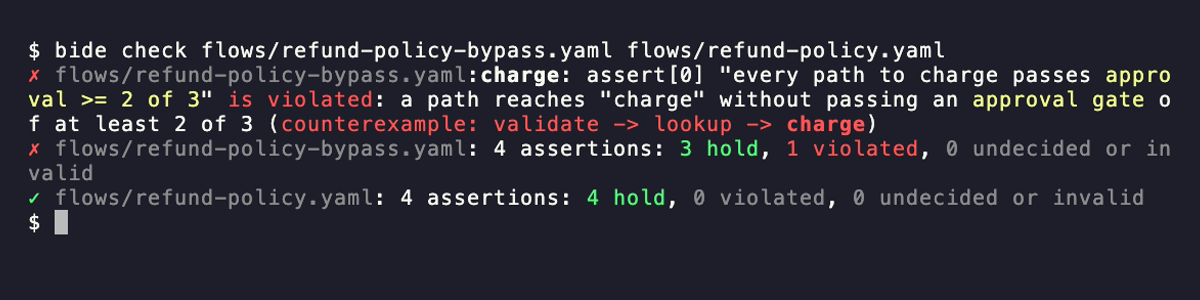
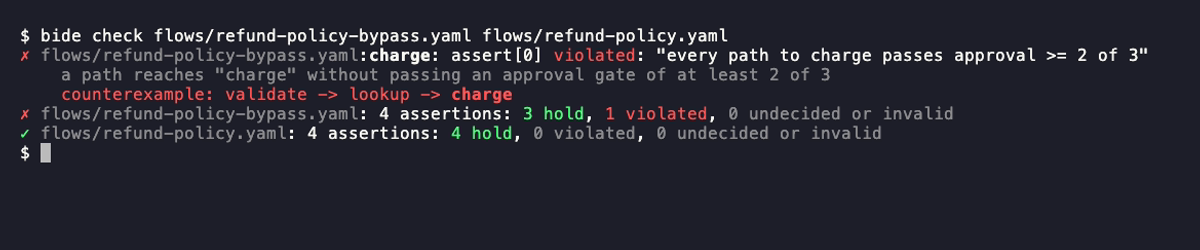
cli: fit colored output to a terminal's width; retake screenshots
On a terminal, a violated assertion is split over the assertion (one color),
its reason and its counterexample path; a diff's summary puts its counts and
digest on lines of their own; verify-evidence says the approver-decision note
once, before the banner. Plain output is unchanged. The screenshots are
retaken at 120 columns, with no wrapped line.

Changed region(s): [[0.0, 0.112, 0.9867, 0.7], [0.0, 0.7, 0.0617, 0.784]]

diff --git a/cmd/bide/color_test.go b/cmd/bide/color_test.go
@@ -6,7 +6,6 @@ import (
 	"io"
 	"os"
 	"path/filepath"
-	"slices"
 	"strings"
 	"testing"
 
@@ -70,24 +69,25 @@ func TestCheckPlainGolden(t *testing.T) {
 }
 
 // TestCheckColorGolden: with -color=always the same lines carry color and marks, and a weakened
-// gate is called out first, in bold red. Without its escapes and marks, the colored output is the
-// plain output's lines.
+// gate is called out first, in bold red. A line too long for a terminal is split over indented
+// lines, so the colored output is checked to keep every word of the plain output.
 func TestCheckColorGolden(t *testing.T) {
 	for _, c := range colorCases {
 		_, out, _ := runBide(append(c.args, "-color=always")...)
 		golden(t, c.golden+".color", out)
 		_, plain := runBideOut(c.args...)
-		if got, want := sortedLines(unmark(stripANSI(out))), sortedLines(plain); got != want {
-			t.Errorf("%s: the colored output's words differ from the plain output's:\n%s\nwant:\n%s", c.golden, got, want)
+		if missing := missingWords(plain, stripANSI(out)); len(missing) > 0 {
+			t.Errorf("%s: the colored output lacks %q of the plain output's words:\n%s", c.golden, missing, stripANSI(out))
 		}
 	}
 	_, out, _ := runBide("check", flowBypass, "-color=always")
 	for _, want := range []string{
-		"\x1b[31m✗\x1b[0m ",                 // a cross on the error
-		"\x1b[31mis violated\x1b[0m",        // the verdict in red
-		"\x1b[1;31mcharge\x1b[0m)",          // the node the counterexample reaches, in bold red
-		"\x1b[31mvalidate\x1b[0m",           // the rest of the path in red
-		"\x1b[33mapproval >= 2 of 3\x1b[0m", // a gate in amber
+		"\x1b[31m✗\x1b[0m ",         // a cross on the error
+		"\x1b[31mviolated\x1b[0m: ", // the verdict in red
+		// the assertion in one color, then the reason and the path on lines of their own
+		`: "every path to charge passes approval >= 2 of 3"` + "\n    ",
+		"    \x1b[31mcounterexample:\x1b[0m \x1b[31mvalidate\x1b[0m", // the path in red
+		"\x1b[1;31mcharge\x1b[0m\n",                                  // the node it reaches, in bold red
 		"\x1b[31m1 violated\x1b[0m",
 		"\x1b[32m3 hold\x1b[0m",
 	} {
@@ -158,22 +158,28 @@ func runBideOut(args ...string) (int, string) {
 	return code, out
 }
 
-// unmark drops the marks a colored line starts with.
-func unmark(s string) string {
-	lines := strings.Split(s, "\n")
-	for i, l := range lines {
-		for _, m := range []string{"✓ ", "✗ ", "! ", "+ ", "- ", "~ "} {
-			l = strings.TrimPrefix(l, m)
-		}
-		lines[i] = l
+// missingWords lists the words of plain (split on spaces and punctuation) that colored lacks,
+// but "is": a violated assertion reads "violated" on a terminal and "is violated" in plain text.
+func missingWords(plain, colored string) []string {
+	split := func(s string) []string {
+		return strings.FieldsFunc(s, func(r rune) bool { return strings.ContainsRune(" \n\t\"(),;:", r) })
 	}
-	return strings.Join(lines, "\n")
-}
-
-func sortedLines(s string) string {
-	lines := strings.Split(s, "\n")
-	slices.Sort(lines)
-	return strings.Join(lines, "\n")
+	have := map[string]int{}
+	for _, w := range split(colored) {
+		have[w]++
+	}
+	var missing []string
+	for _, w := range split(plain) {
+		if w == "is" {
+			continue
+		}
+		if have[w] == 0 {
+			missing = append(missing, w)
+			continue
+		}
+		have[w]--
+	}
+	return missing
 }
 
 // stripANSI drops the SGR escapes from s.

diff --git a/internal/runview/style.go b/internal/runview/style.go
@@ -1,6 +1,7 @@
 package runview
 
 import (
+	"fmt"
 	"regexp"
 	"strings"
 
@@ -28,6 +29,45 @@ func colorRisk(st term.Style, s string) string {
 		}
 		return st.OK(w)
 	})
+}
+
+// indent starts a line that continues the one above it, on a terminal.
+const indent = "    "
+
+// assertionMessage is plan's message for an assertion that is violated or cannot be decided:
+// assert[i] "<text>" is violated: <why> (counterexample: a -> b -> c).
+var assertionMessage = regexp.MustCompile(`^(assert\[\d+\]) ("(?:[^"\\]|\\.)*") (is violated|cannot be decided): (.*?)(?: \(counterexample: (.*)\))?$`)
+
+// assertionLines is a violated or undecided assertion on a terminal, over lines that fit its
+// width: the verdict and the assertion, then the reason, then the counterexample path in red with
+// the node it reaches in bold. ok is false when color is off or p is not such an assertion; the
+// plain output keeps plan's one line.
+func assertionLines(st term.Style, file string, p plan.ConfigProblem) (string, bool) {
+	m := assertionMessage.FindStringSubmatch(p.Message)
+	if !st.On() || m == nil {
+		return "", false
+	}
+	verdict := st.Fail("violated")
+	if m[3] == "cannot be decided" {
+		verdict = st.Warn("cannot be decided")
+	}
+	where := st.Dim(file)
+	if p.Node != "" {
+		where += ":" + st.Bold(p.Node)
+	}
+	s := fmt.Sprintf("%s%s: %s %s: %s\n%s%s\n", st.Cross(), where, m[1], verdict, m[2], indent, st.Dim(m[4]))
+	if m[5] != "" {
+		nodes := strings.Split(m[5], " -> ")
+		for i, n := range nodes {
+			if n == p.Node {
+				nodes[i] = st.BoldFail(n)
+			} else {
+				nodes[i] = st.Fail(n)
+			}
+		}
+		s += indent + st.Fail("counterexample:") + " " + strings.Join(nodes, st.Fail(" -> ")) + "\n"
+	}
+	return s, true
 }
 
 // cexMark opens the counterexample path plan appends to a violated assertion's message.

diff --git a/internal/auditcli/style.go b/internal/auditcli/style.go
@@ -16,9 +16,16 @@ import (
 // dimmed are the details a reader can skim: a signed tree's size, and hex digests and roots.
 var dimmed = regexp.MustCompile(`signed tree of size \d+|\b[0-9a-f]{32,}\b`)
 
+// approverNote is the parenthetical audit puts on every approver decision line of an evidence
+// report. On a terminal it is said once, at the end, so each line fits the terminal's width.
+const approverNote = " (check the signatures and the count with VerifyApprovals)"
+
 // styleLine is one report line in c's colors.
 func (c *cli) styleLine(line string) string {
 	st := c.st
+	if l, ok := strings.CutSuffix(line, approverNote); ok {
+		line, c.approverNote = l, true
+	}
 	for _, p := range []struct {
 		prefix string
 		style  func(string) string
@@ -82,11 +89,15 @@ func (c *cli) banner(code int) string {
 	default:
 		head = st.Cross() + st.BoldFail("NO VERDICT")
 	}
+	var note string
+	if c.approverNote {
+		note = "\n" + st.Dim("note: an approver line proves the decision is logged; verify-approvals checks the signatures and the count")
+	}
 	detail := fmt.Sprintf("exit %d", code)
 	if c.head != nil {
 		detail = fmt.Sprintf("tree size %d · merkle root %s · %s", c.head.Size, hex.EncodeToString(c.head.Root), detail)
 	}
-	return "\n" + head + "  " + st.Dim(detail) + "\n"
+	return note + "\n" + head + "  " + st.Dim(detail) + "\n"
 }
 
 // checked records the signed tree head a verb checked, for the banner.

diff --git a/internal/auditcli/color_test.go b/internal/auditcli/color_test.go
@@ -141,3 +141,25 @@ func treeSize(t *testing.T, path string) string {
 	readFixture(t, path, &b)
 	return strings.TrimSpace(string(must(json.Marshal(b.STH.Size))))
 }
+
+// TestApproverNoteOnce: on a terminal, the parenthetical audit puts on every approver decision line
+// is dropped from each line and said once, dimmed, before the banner; plain lines keep it.
+func TestApproverNoteOnce(t *testing.T) {
+	line := "PASS  ops: approver decision included in the signed log" + approverNote
+	c := &cli{st: term.New(true)}
+	if got := c.styleLine(line); strings.Contains(got, "VerifyApprovals") || !strings.HasSuffix(got, "included in the signed log") {
+		t.Errorf("styled approver line: %q", got)
+	}
+	if b := c.banner(exitVerified); !strings.Contains(b, "\x1b[2mnote: an approver line proves the decision is logged; verify-approvals checks the signatures and the count\x1b[0m") {
+		t.Errorf("banner without the note: %q", b)
+	}
+	if b := (&cli{st: term.New(true)}).banner(exitVerified); strings.Contains(b, "note:") {
+		t.Errorf("banner with a note no line dropped: %q", b)
+	}
+	var out strings.Builder
+	plain := &cli{out: &out}
+	plain.println(line)
+	if out.String() != line+"\n" {
+		t.Errorf("plain line changed: %q", out.String())
+	}
+}

diff --git a/internal/runview/diff.go b/internal/runview/diff.go
@@ -194,9 +194,13 @@ func CheckDiffStyled(w io.Writer, d Diff, st term.Style) (weakened bool, err err
 		if len(v.Changes) == 1 {
 			changes = "change"
 		}
-		fmt.Fprintf(w, "%s: %s from %s %s; %s\n", name, st.Bold(fmt.Sprintf("%d %s", len(v.Changes), changes)), v.OldName,
-			st.Dim(fmt.Sprintf("(nodes: %d added, %d removed, %d changed; edges: %d added, %d removed, %d changed)", c.NodesAdded, c.NodesRemoved, c.NodesChanged, c.EdgesAdded, c.EdgesRemoved, c.EdgesChanged)),
-			st.Dim(v.DigestLine()))
+		counts := fmt.Sprintf("nodes: %d added, %d removed, %d changed; edges: %d added, %d removed, %d changed", c.NodesAdded, c.NodesRemoved, c.NodesChanged, c.EdgesAdded, c.EdgesRemoved, c.EdgesChanged)
+		if st.On() { // on a terminal the counts and the digest go on lines of their own, to fit its width
+			fmt.Fprintf(w, "%s: %s from %s\n%s%s\n%s%s\n", name, st.Bold(fmt.Sprintf("%d %s", len(v.Changes), changes)), v.OldName,
+				indent, st.Dim(counts), indent, st.Dim(v.DigestLine()))
+		} else {
+			fmt.Fprintf(w, "%s: %d %s from %s (%s); %s\n", name, len(v.Changes), changes, v.OldName, counts, v.DigestLine())
+		}
 	}
 	return len(v.Weakened) > 0, nil
 }

diff --git a/internal/auditcli/exit.go b/internal/auditcli/exit.go
@@ -103,6 +103,7 @@ type cli struct {
 	color          term.Mode       // -color
 	st             term.Style      // the report's colors: off under -json and off a terminal
 	head           *audit.TreeHead // the signed tree a verify verb checked, for the banner
+	approverNote   bool            // a styled line dropped approverNote, which the banner says once
 }
 
 func (c *cli) printf(format string, args ...any) { c.write(fmt.Sprintf(format, args...)) }

diff --git a/internal/runview/config.go b/internal/runview/config.go
@@ -278,6 +278,10 @@ func CheckStyled(w io.Writer, c Config, st term.Style) bool {
 		if where == "" && (p.From != "" || p.To != "") {
 			where = p.From + "->" + p.To
 		}
+		if lines, ok := assertionLines(st, c.Name, p); ok {
+			fmt.Fprint(w, lines)
+			continue
+		}
 		mark, msg := st.Cross(), problemText(st, p)
 		if p.Severity == "warning" {
 			mark, msg = st.Bang(), st.Warn("warning:")+" "+colorRisk(st, p.Message)

diff --git a/CHANGELOG.md b/CHANGELOG.md
@@ -12,7 +12,7 @@ journal format can change between pre-releases without a version bump. Curated h
 ### Added
 
 - `examples/stripe-refund`: a refund agent against Stripe's TEST mode API, killed mid-refund. It looks up a payment intent (read-only), gates a refund over a threshold on 2-of-3 approval, sends `POST /v1/refunds` with an `Idempotency-Key` and metadata naming the run and call, and writes a receipt, on a SQLite journal. `-crash-after-send` exits the process right after the request is sent and before its result is journaled; the restart halts with `OutcomeUnknown` instead of refunding again, and a reconciler lists the payment intent's refunds, matches the step's key in their metadata, and resolves the halt with `ResolveHalt` (`WithMinHaltAge`, the refund as evidence), so exactly one refund exists. It resolves nothing when Stripe has no such refund. The example calls Stripe with `net/http` (no SDK, no new dependency), reads `STRIPE_SECRET_KEY` from the environment and refuses anything but an `sk_test_` key. Its tests run the binary as separate processes against a fake Stripe that honors idempotency keys and need no key; `demo.sh` and the README do the kill and restart against the real test API by hand. A new example module (`examples/stripe-refund`), listed in CI, `go.work` and the release script's repo-only modules.
-- The `bide` command colors its text output on a terminal, for a reader who scans it. `bide check` marks each error with a red ✗, draws a violated assertion's counterexample path in red with the node it reaches in bold, colors risk classes as the risk map does (side effect red, read-only and idempotent green, an approval gate amber) and the verdict counts, and marks a config whose assertions all hold with a green ✓; `bide check -diff -check` colors added lines green, removed red and changed amber, and calls out a weakened approval gate first, in bold red. `bide audit` marks `PASS`/`OK` lines with a green ✓ and `FAIL` lines with a red ✗, and a verify verb ends with a `VERIFIED` (green, with the signed tree's size and Merkle root dimmed) or `FAILED` (red) banner. `bide demo` gives each step its color (the crash red, the halt amber, the resolution blue, the proofs green) and now names the halt and the resolution in words ("halted: outcome unknown", "resolved with ResolveHalt"); `bide view` and `bide init` print the address to open and the next commands in bold cyan. Status is never carried by color alone: the words stay, and a mark is added beside them. Written to a file or a pipe, and under `bide audit -json`, the output is the plain text it was (golden tests pin it byte for byte). `init`, `demo`, `view`, `check` and `audit` take `-color=auto|always|never` (default `auto`); `auto` colors a terminal only, not with `NO_COLOR` set to any value or `TERM=dumb`, and on Windows only a terminal known to read ANSI escapes (Windows Terminal, ConEmu, ANSICON, VS Code, or a `TERM` such as `xterm-256color`). The styles are package `internal/term`, standard library only, so `bide audit` and the `bide_audit_only` build stay core-only. Help (`-h`) is unchanged. Screenshots in the [run viewer](docs/guides/run-viewer.md#color) and [audit](docs/guides/audit.md#cli-reference-bide-audit) guides, recorded by `assets/demo/cli.sh`; `assets/crash-demo.gif` is re-recorded in color.
+- The `bide` command colors its text output on a terminal, for a reader who scans it. `bide check` marks each error with a red ✗, splits a violated assertion over the assertion, its reason and its counterexample path (in red, with the node it reaches in bold), so each line fits the terminal, colors risk classes as the risk map does (side effect red, read-only and idempotent green, an approval gate amber) and the verdict counts, and marks a config whose assertions all hold with a green ✓; `bide check -diff -check` colors added lines green, removed red and changed amber, and calls out a weakened approval gate first, in bold red, with the summary's counts and digest on lines of their own. `bide audit` marks `PASS`/`OK` lines with a green ✓ and `FAIL` lines with a red ✗, and a verify verb ends with a `VERIFIED` (green, with the signed tree's size and Merkle root dimmed) or `FAILED` (red) banner; the note `verify-evidence` puts on every approver decision line is said once, before the banner. `bide demo` gives each step its color (the crash red, the halt amber, the resolution blue, the proofs green) and now names the halt and the resolution in words ("halted: outcome unknown", "resolved with ResolveHalt"); `bide view` and `bide init` print the address to open and the next commands in bold cyan. Status is never carried by color alone: the words stay, and a mark is added beside them. Written to a file or a pipe, and under `bide audit -json`, the output is the plain text it was (golden tests pin it byte for byte). `init`, `demo`, `view`, `check` and `audit` take `-color=auto|always|never` (default `auto`); `auto` colors a terminal only, not with `NO_COLOR` set to any value or `TERM=dumb`, and on Windows only a terminal known to read ANSI escapes (Windows Terminal, ConEmu, ANSICON, VS Code, or a `TERM` such as `xterm-256color`). The styles are package `internal/term`, standard library only, so `bide audit` and the `bide_audit_only` build stay core-only. Help (`-h`) is unchanged. Screenshots in the [run viewer](docs/guides/run-viewer.md#color) and [audit](docs/guides/audit.md#cli-reference-bide-audit) guides, recorded by `assets/demo/cli.sh`; `assets/crash-demo.gif` is re-recorded in color.
 
 ## [0.15.0] - 2026-10-13
 

diff --git a/docs/guides/run-viewer.md b/docs/guides/run-viewer.md
@@ -390,9 +390,10 @@ flows/refund-policy-bypass.yaml:charge: assert[0] "every path to charge passes a
 flows/refund-policy-bypass.yaml: 4 assertions: 3 hold, 1 violated, 0 undecided or invalid
 ```
 
-On a terminal the same lines are colored: a red ✗ on the error, the counterexample path in red with
-the node it reaches in bold, the gate in amber, and a green ✓ on a file whose assertions all hold
-(see [Color](#color)):
+On a terminal the violation is split over lines that fit the terminal: a red ✗ and the assertion,
+then the reason, dimmed, then the counterexample path in red with the node it reaches in bold; a
+file whose assertions all hold gets a green ✓ (see [Color](#color)). Piped or redirected, it is the
+one line above:
 
 <img src="./img/cli-check-violation-dark.png" alt="bide check on a terminal: the violated assertion marked with a red cross, its counterexample validate -> lookup -> charge in red with charge in bold, and the holding file marked with a green check">
 
@@ -476,8 +477,9 @@ flows/refund-v1.yaml: approval policy weakened: charge: approval 2 of 3 -> 1 of 
 flows/refund-v1.yaml: 5 changes from flows/refund-v2.yaml (nodes: 1 added, 1 removed, 1 changed; edges: 1 added, 1 removed, 0 changed); digest not computed: the check is structural (the digest commits to the blocks' Go types; see plan/planview)
 ```
 
-On a terminal the lines are colored as the page is (added green, removed red, changed amber), and
-the weakened gate moves to the top, in bold red:
+On a terminal the lines are colored as the page is (added green, removed red, changed amber), the
+weakened gate moves to the top, in bold red, and the summary's counts and digest go on lines of
+their own:
 
 <img src="./img/cli-diff-weakened-dark.png" alt="bide check -diff -check on a terminal: approval policy weakened called out first in bold red, then the changes with added in green, removed in red and changed in amber">
 

diff --git a/docs/guides/audit.md b/docs/guides/audit.md
@@ -504,7 +504,9 @@ Conventions shared across verbs:
   verbs read it; `bide audit -version -json` prints the same as JSON.
 - On a terminal the text report is colored: each `PASS`/`OK` line gains a green ✓, each `FAIL` line
   a red ✗, and a verify verb ends with a banner, `VERIFIED` in green (with the signed tree's size
-  and Merkle root, dimmed) or `FAILED` in red. The words are the same, so a reader who cannot tell
+  and Merkle root, dimmed) or `FAILED` in red. The note `verify-evidence` puts on every approver
+  decision line ("check the signatures and the count with VerifyApprovals") is said once, before
+  the banner, so each line fits the terminal. The words are otherwise the same, so a reader who cannot tell
   the colors apart loses nothing. Written to a file or a pipe, and under `-json`, the report is the
   plain text it always was. Every verb takes `-color=auto|always|never` (default `auto`), before or
   after the verb; `NO_COLOR` set to any value, or `TERM=dumb`, turns `auto` off.
